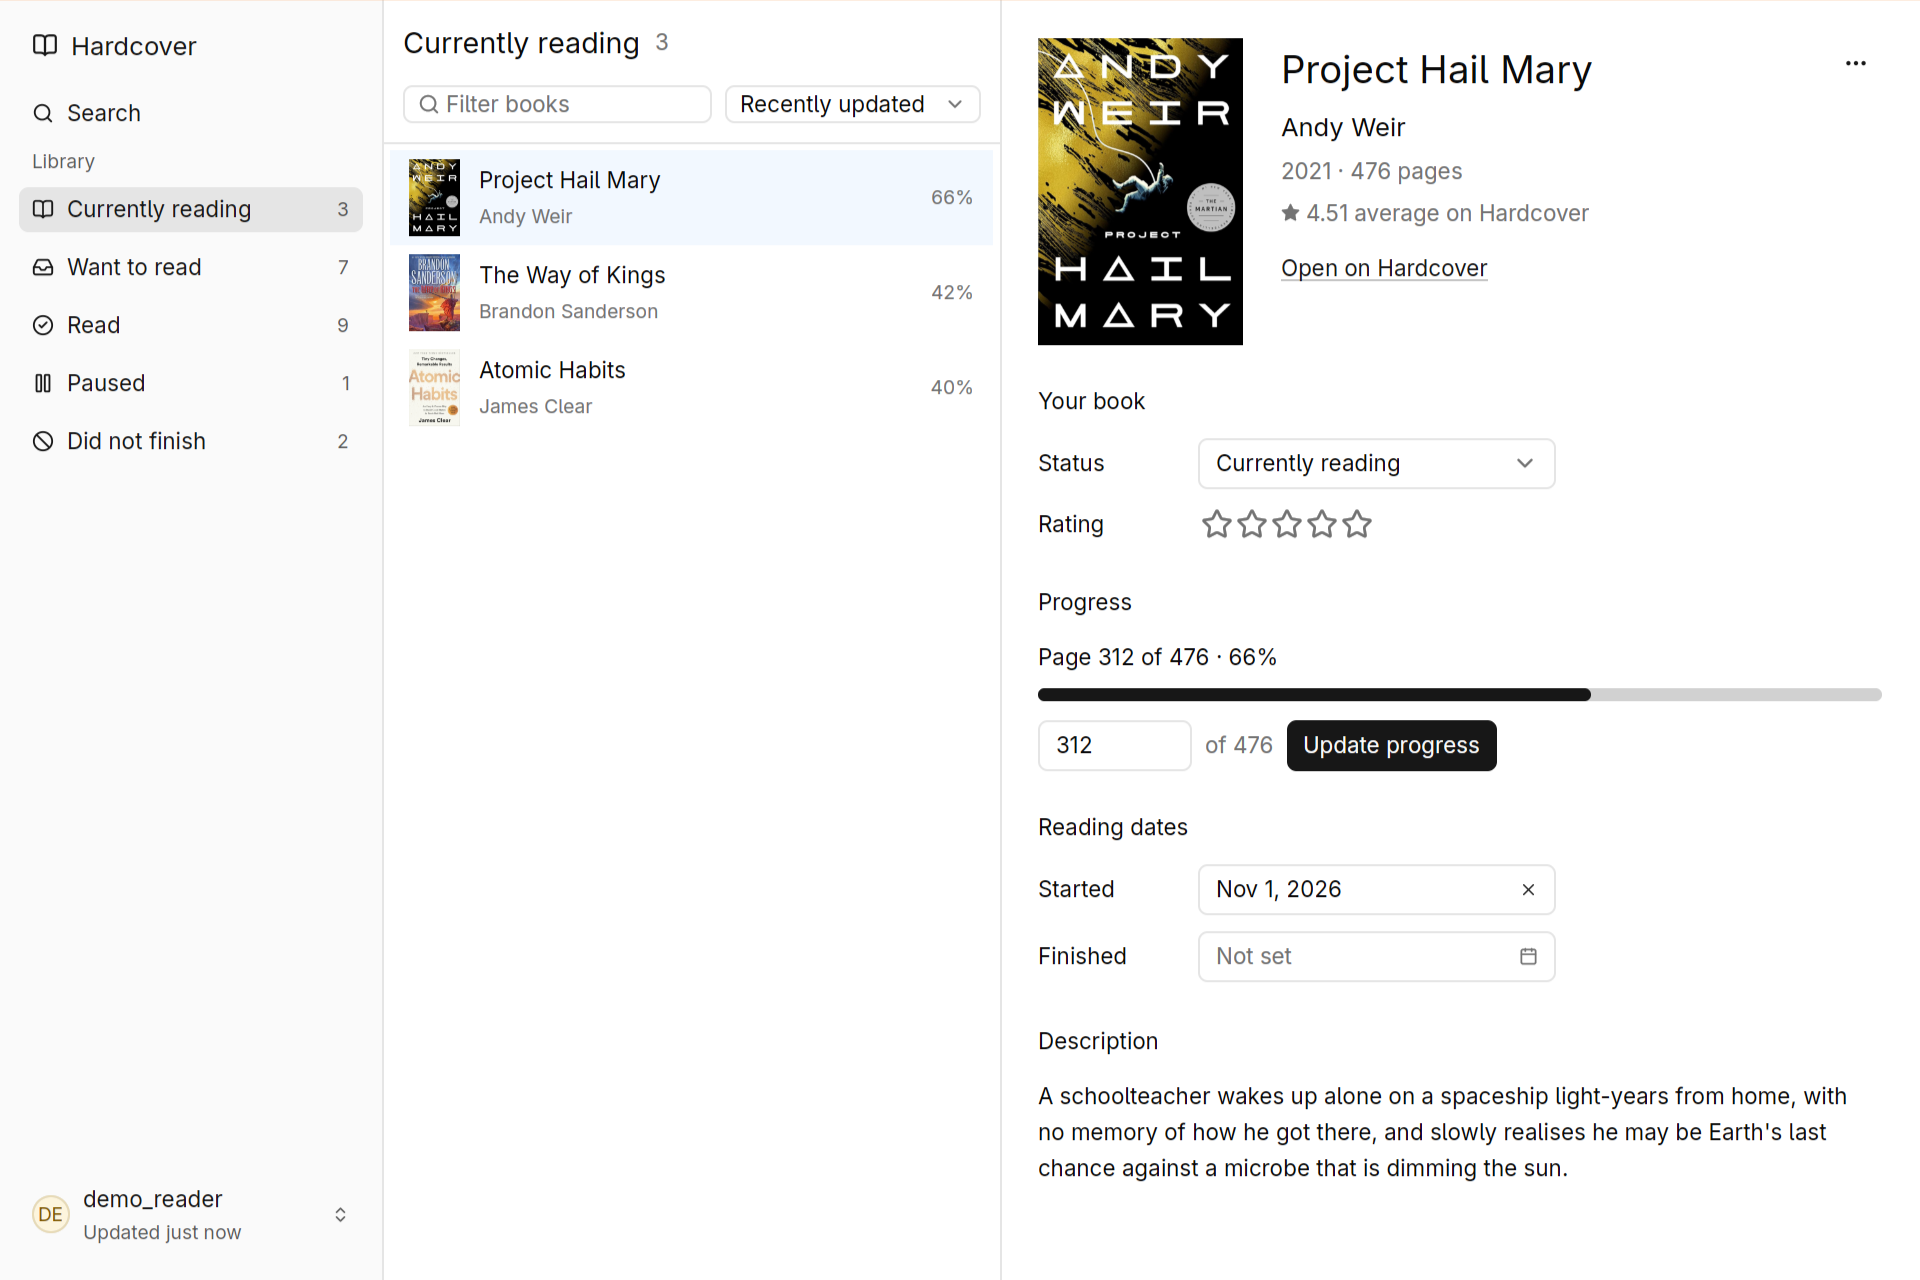
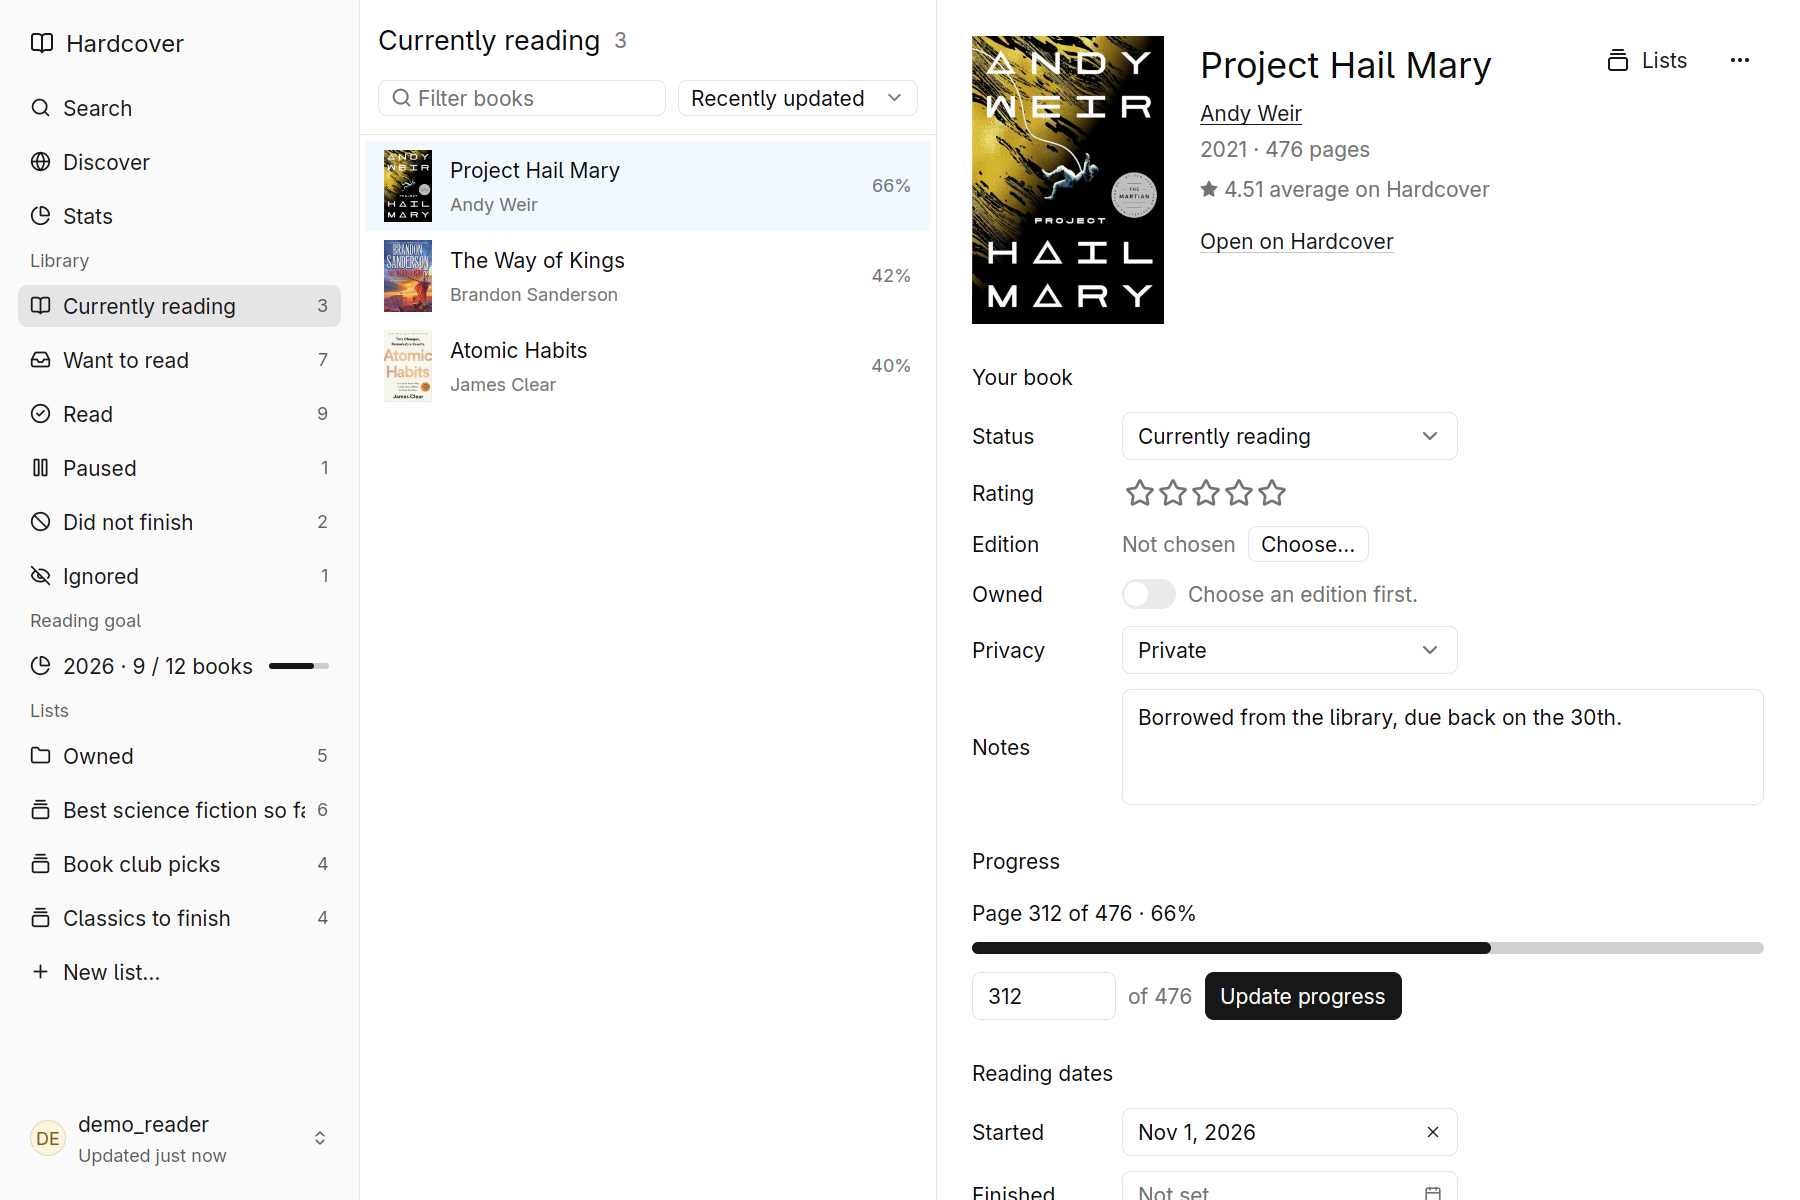
Retake the README screenshots
The library and search shots now show the current book page, the
reading-goal and Lists sections in the sidebar, and the Books, Authors
and Series switch in search. Add a Discover pair, and indent the
Settings row of the shortcuts table so it stays in the table.

Taken from the demo build at 1200x800, light and dark.

diff --git a/README.md b/README.md
@@ -21,7 +21,7 @@ Hardcover Desktop is a native app built with Rust and [GPUI](https://gpui-kit.co
 
 <picture>
   <source media="(prefers-color-scheme: dark)" srcset="docs/screenshots/library-dark.png">
-  <img src="docs/screenshots/library-light.png" alt="Hardcover Desktop showing the Currently reading shelf, with a book's details and reading progress beside it">
+  <img src="docs/screenshots/library-light.png" alt="Hardcover Desktop showing the Currently reading shelf, with a book's page beside it: its status, rating, edition, privacy, notes and reading progress">
 </picture>
 
 ## Features
@@ -45,7 +45,7 @@ Hardcover Desktop is a native app built with Rust and [GPUI](https://gpui-kit.co
 
 <picture>
   <source media="(prefers-color-scheme: dark)" srcset="docs/screenshots/search-dark.png">
-  <img src="docs/screenshots/search-light.png" alt="Searching for an author, with one of the results open beside the list">
+  <img src="docs/screenshots/search-light.png" alt="Searching books for Dune, with the Books, Authors and Series switch above the results and the first result's page open beside the list">
 </picture>
 
 - **Keyboard first:**
@@ -58,8 +58,13 @@ Hardcover Desktop is a native app built with Rust and [GPUI](https://gpui-kit.co
   | <kbd>Ctrl</kbd>+<kbd>Shift</kbd>+<kbd>S</kbd> | Stats |
   | <kbd>Ctrl</kbd>+<kbd>R</kbd> | Refresh the library |
   | <kbd>Esc</kbd> or <kbd>Alt</kbd>+<kbd>←</kbd> | Back from a series, author or book page |
-| <kbd>Ctrl</kbd>+<kbd>,</kbd> | Settings |
+  | <kbd>Ctrl</kbd>+<kbd>,</kbd> | Settings |
   | <kbd>Ctrl</kbd>+<kbd>Q</kbd> | Quit |
+
+<picture>
+  <source media="(prefers-color-scheme: dark)" srcset="docs/screenshots/discover-dark.png">
+  <img src="docs/screenshots/discover-light.png" alt="Discover, listing the books the most readers finished on Hardcover in the last month, each with its shelf">
+</picture>
 
 ## Install
 
